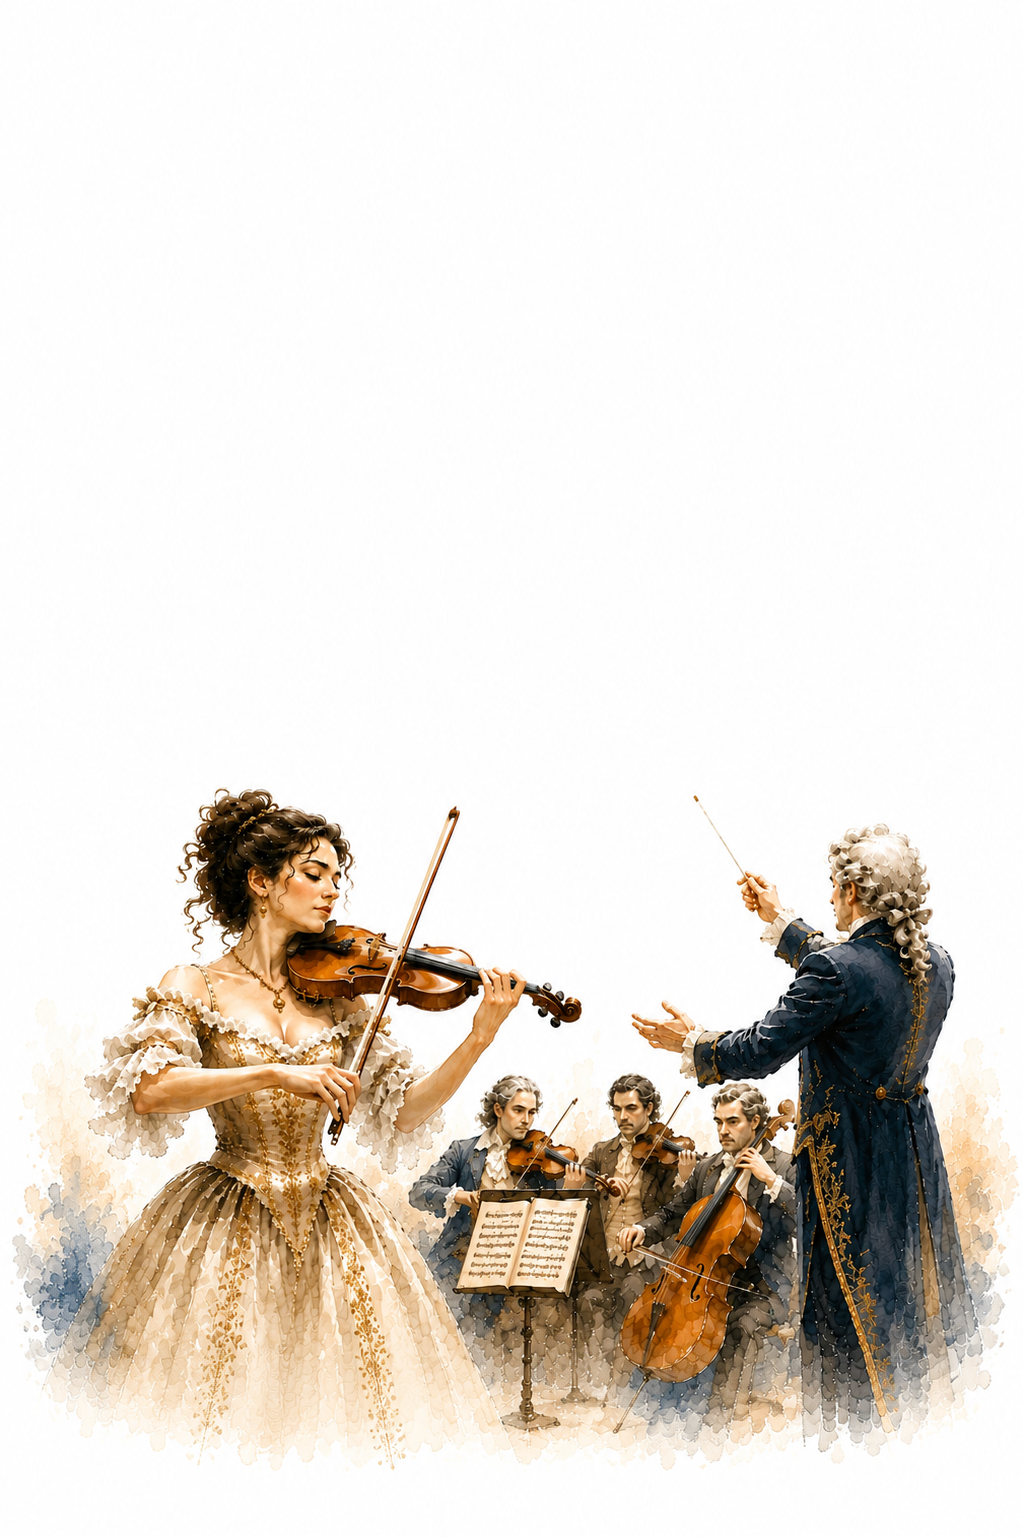
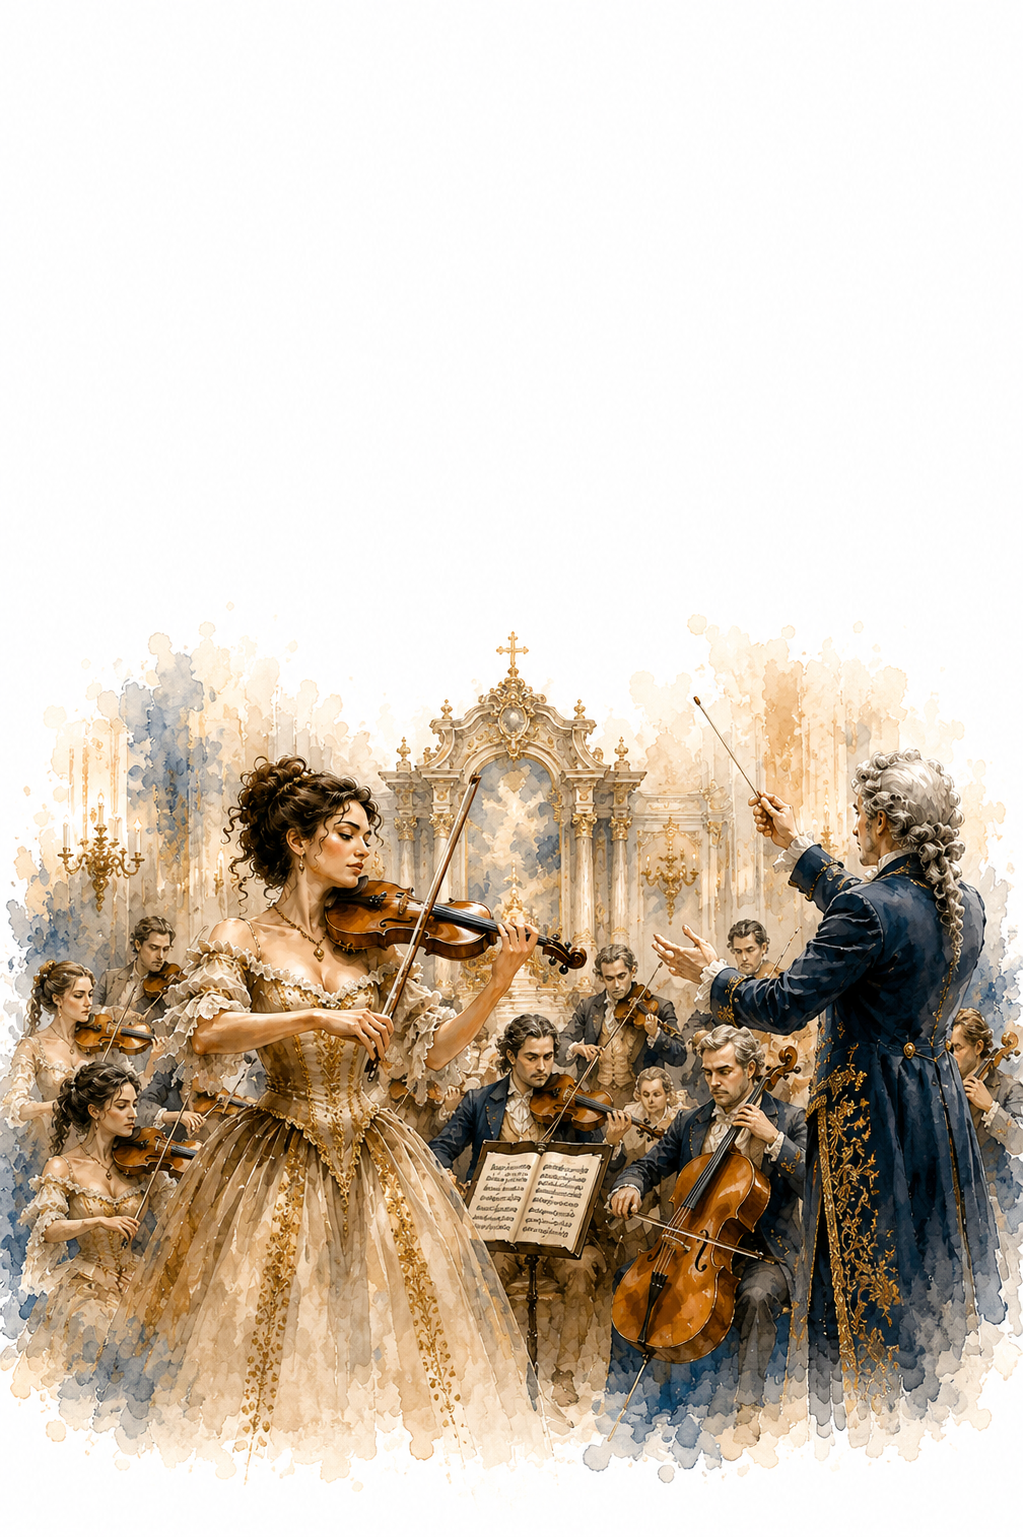
Aggiorna immagine del concerto solista

diff --git a/nuclei/barocco/argomenti/il-barocco-in-coordinate/index.html b/nuclei/barocco/argomenti/il-barocco-in-coordinate/index.html
@@ -5,19 +5,17 @@
     <meta name="viewport" content="width=device-width, initial-scale=1.0">
     <meta name="description" content="Introduzione al Barocco: lezione completa del nucleo Il Barocco, con ascolto, attività, materiali e riferimenti collegati.">
     <title>Introduzione al Barocco | Il Barocco | Accordia</title>
-    <link rel="stylesheet" href="../../../../css/style.css?v=1779532949">
+    <link rel="stylesheet" href="../../../../css/style.css?v=1779565729">
 
-    <link rel="stylesheet" href="../../../../css/lesson-immersive.css?v=1779532949">
-    <link rel="stylesheet" href="../../../../css/lesson-readability.css?v=1779532949">
-    <link rel="stylesheet" href="../../../../css/barocco-first-listening.css?v=1779532949">
-    <link rel="stylesheet" href="../../../../css/barocco-timeline.css?v=20260523-pillnav-restore-v1">
-    <link rel="stylesheet" href="../../../../css/barocco-timeline-header.css?v=20260523-pillnav-restore-v1">
-    <link rel="stylesheet" href="../../../../css/barocco-timeline-pillnav.css?v=20260523-pillnav-restore-v1">
-    <link rel="stylesheet" href="../../../../css/barocco-coordinate-responsive.css?v=20260523-scroll-unclip-v2">
-    <link rel="stylesheet" href="../../../../css/barocco-lesson-layout-final.css?v=1779532949">
-    <link rel="stylesheet" href="../../../../css/barocco-editorial-bands.css?v=1779532949">
-    <link rel="stylesheet" href="../../../../css/barocco-key-concepts.css?v=20260523-key-concepts-static-large-v32">
-    <link rel="stylesheet" href="../../../../css/barocco-typography-unified.css?v=1779532949">
+    <link rel="stylesheet" href="../../../../css/lesson-immersive.css?v=1779565729">
+    <link rel="stylesheet" href="../../../../css/lesson-readability.css?v=1779565729">
+    <link rel="stylesheet" href="../../../../css/barocco-first-listening.css?v=1779565729">
+    <link rel="stylesheet" href="../../../../css/barocco-timeline.css?v=1779565729">
+    <link rel="stylesheet" href="../../../../css/barocco-coordinate-responsive.css?v=1779565729">
+    <link rel="stylesheet" href="../../../../css/barocco-lesson-layout-final.css?v=1779565729">
+    <link rel="stylesheet" href="../../../../css/barocco-editorial-bands.css?v=1779565729">
+    <link rel="stylesheet" href="../../../../css/barocco-key-concepts.css?v=1779565729">
+    <link rel="stylesheet" href="../../../../css/barocco-typography-unified.css?v=1779565729">
 </head>
 <body data-nav="timeline" data-current-nucleus="barocco">
     <header class="site-header">
@@ -90,44 +88,29 @@
         </div>
     </footer>
 
-    <script src="../../../../js/main.js?v=1779532949"></script>
+    <script src="../../../../js/main.js?v=1779565729"></script>
 
     <script type="module">
         import React from "https://esm.sh/react@18";
         import { createRoot } from "https://esm.sh/react-dom@18/client";
+        import BaroccoFirstListening from "../../../../components/BaroccoFirstListening.module.js?v=1779565729";
+        import BaroccoTimeline from "../../../../components/BaroccoTimeline.module.js?v=1779565729";
+        import BaroccoKeyConcepts from "../../../../components/BaroccoKeyConcepts.module.js?v=1779565729";
 
-        async function mountLessonBand(mountId, importer) {
-            const mountNode = document.getElementById(mountId);
-            if (!mountNode) return;
-
-            try {
-                const module = await importer();
-                createRoot(mountNode).render(React.createElement(module.default));
-            } catch (error) {
-                console.error(`Errore nel caricamento della fascia ${mountId}`, error);
-                mountNode.innerHTML = `
-                    <section class="lesson-noscript">
-                        <h2>Contenuto temporaneamente non disponibile</h2>
-                        <p>Ricarica la pagina per riprovare.</p>
-                    </section>
-                `;
-            }
+        const mountNode0 = document.getElementById("barocco-first-listening-root");
+        if (mountNode0) {
+            createRoot(mountNode0).render(React.createElement(BaroccoFirstListening));
         }
 
-        mountLessonBand(
-            "barocco-first-listening-root",
-            () => import("../../../../components/BaroccoFirstListening.module.js?v=1779532949")
-        );
+        const mountNode1 = document.getElementById("barocco-timeline-root");
+        if (mountNode1) {
+            createRoot(mountNode1).render(React.createElement(BaroccoTimeline));
+        }
 
-        mountLessonBand(
-            "barocco-timeline-root",
-            () => import("../../../../components/BaroccoTimeline.module.js?v=20260523-pillnav-restore-v1")
-        );
-
-        mountLessonBand(
-            "barocco-key-concepts-root",
-            () => import("../../../../components/BaroccoKeyConcepts.module.js?v=20260523-key-concepts-static-large-v32")
-        );
+        const mountNode2 = document.getElementById("barocco-key-concepts-root");
+        if (mountNode2) {
+            createRoot(mountNode2).render(React.createElement(BaroccoKeyConcepts));
+        }
     </script>
 </body>
 </html>